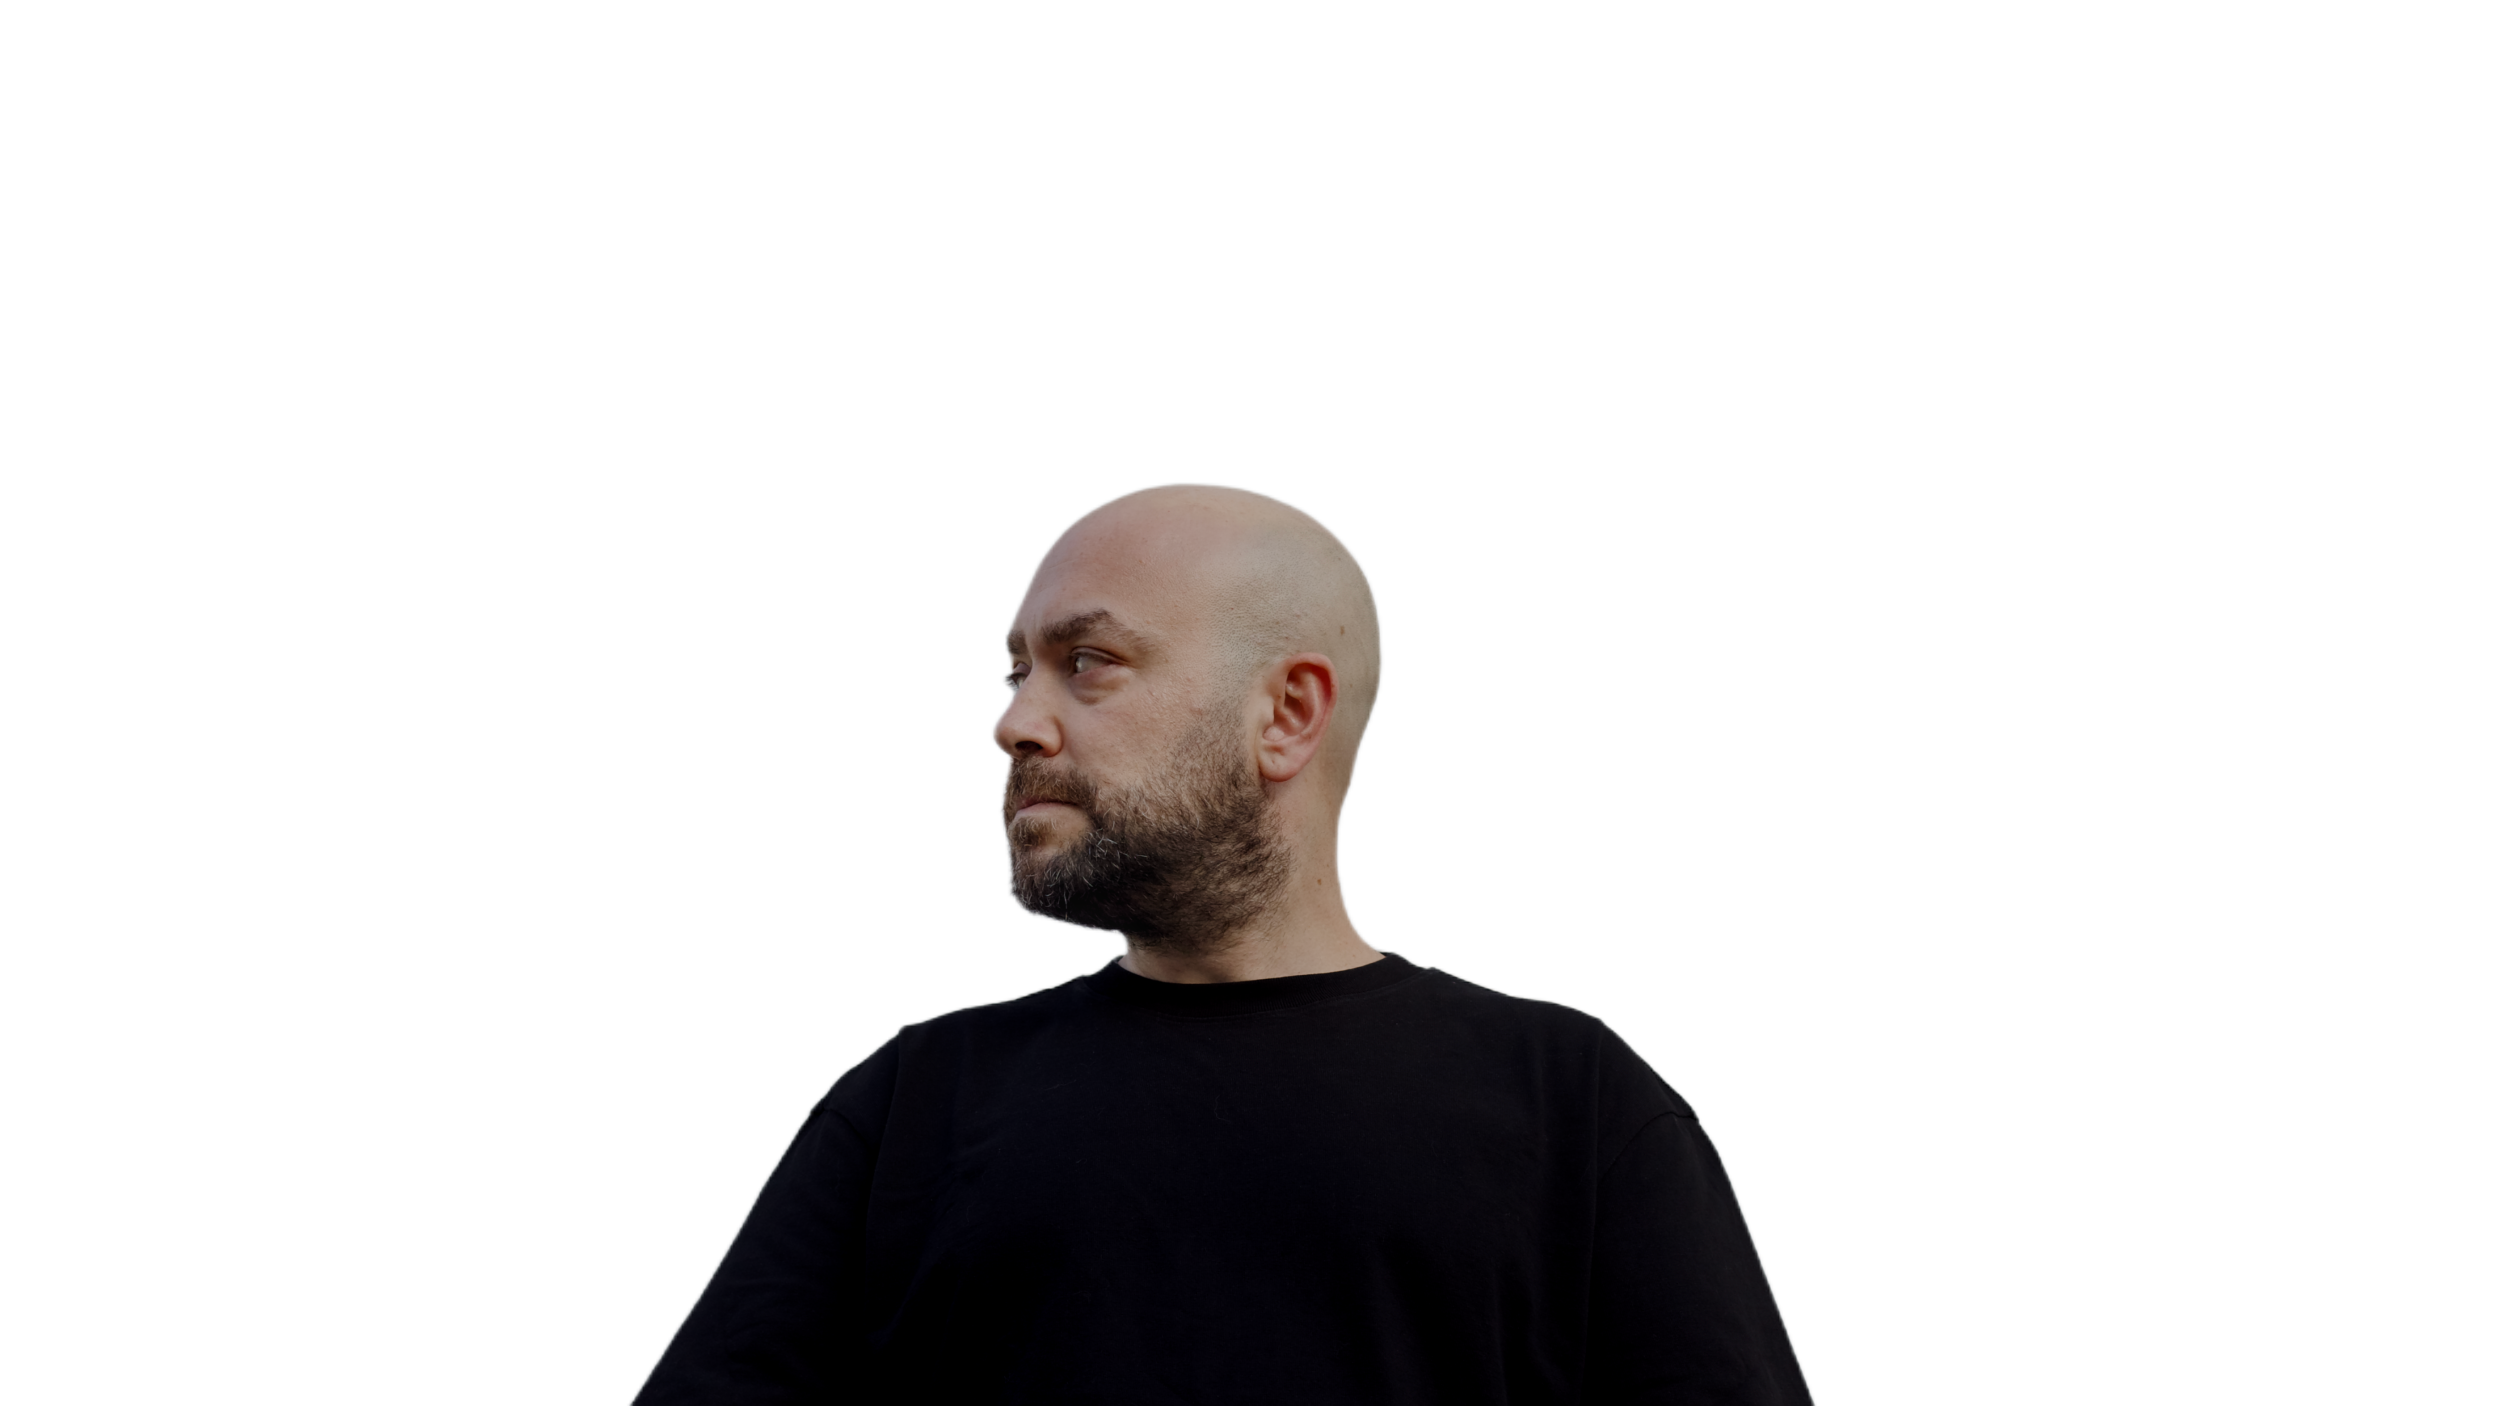
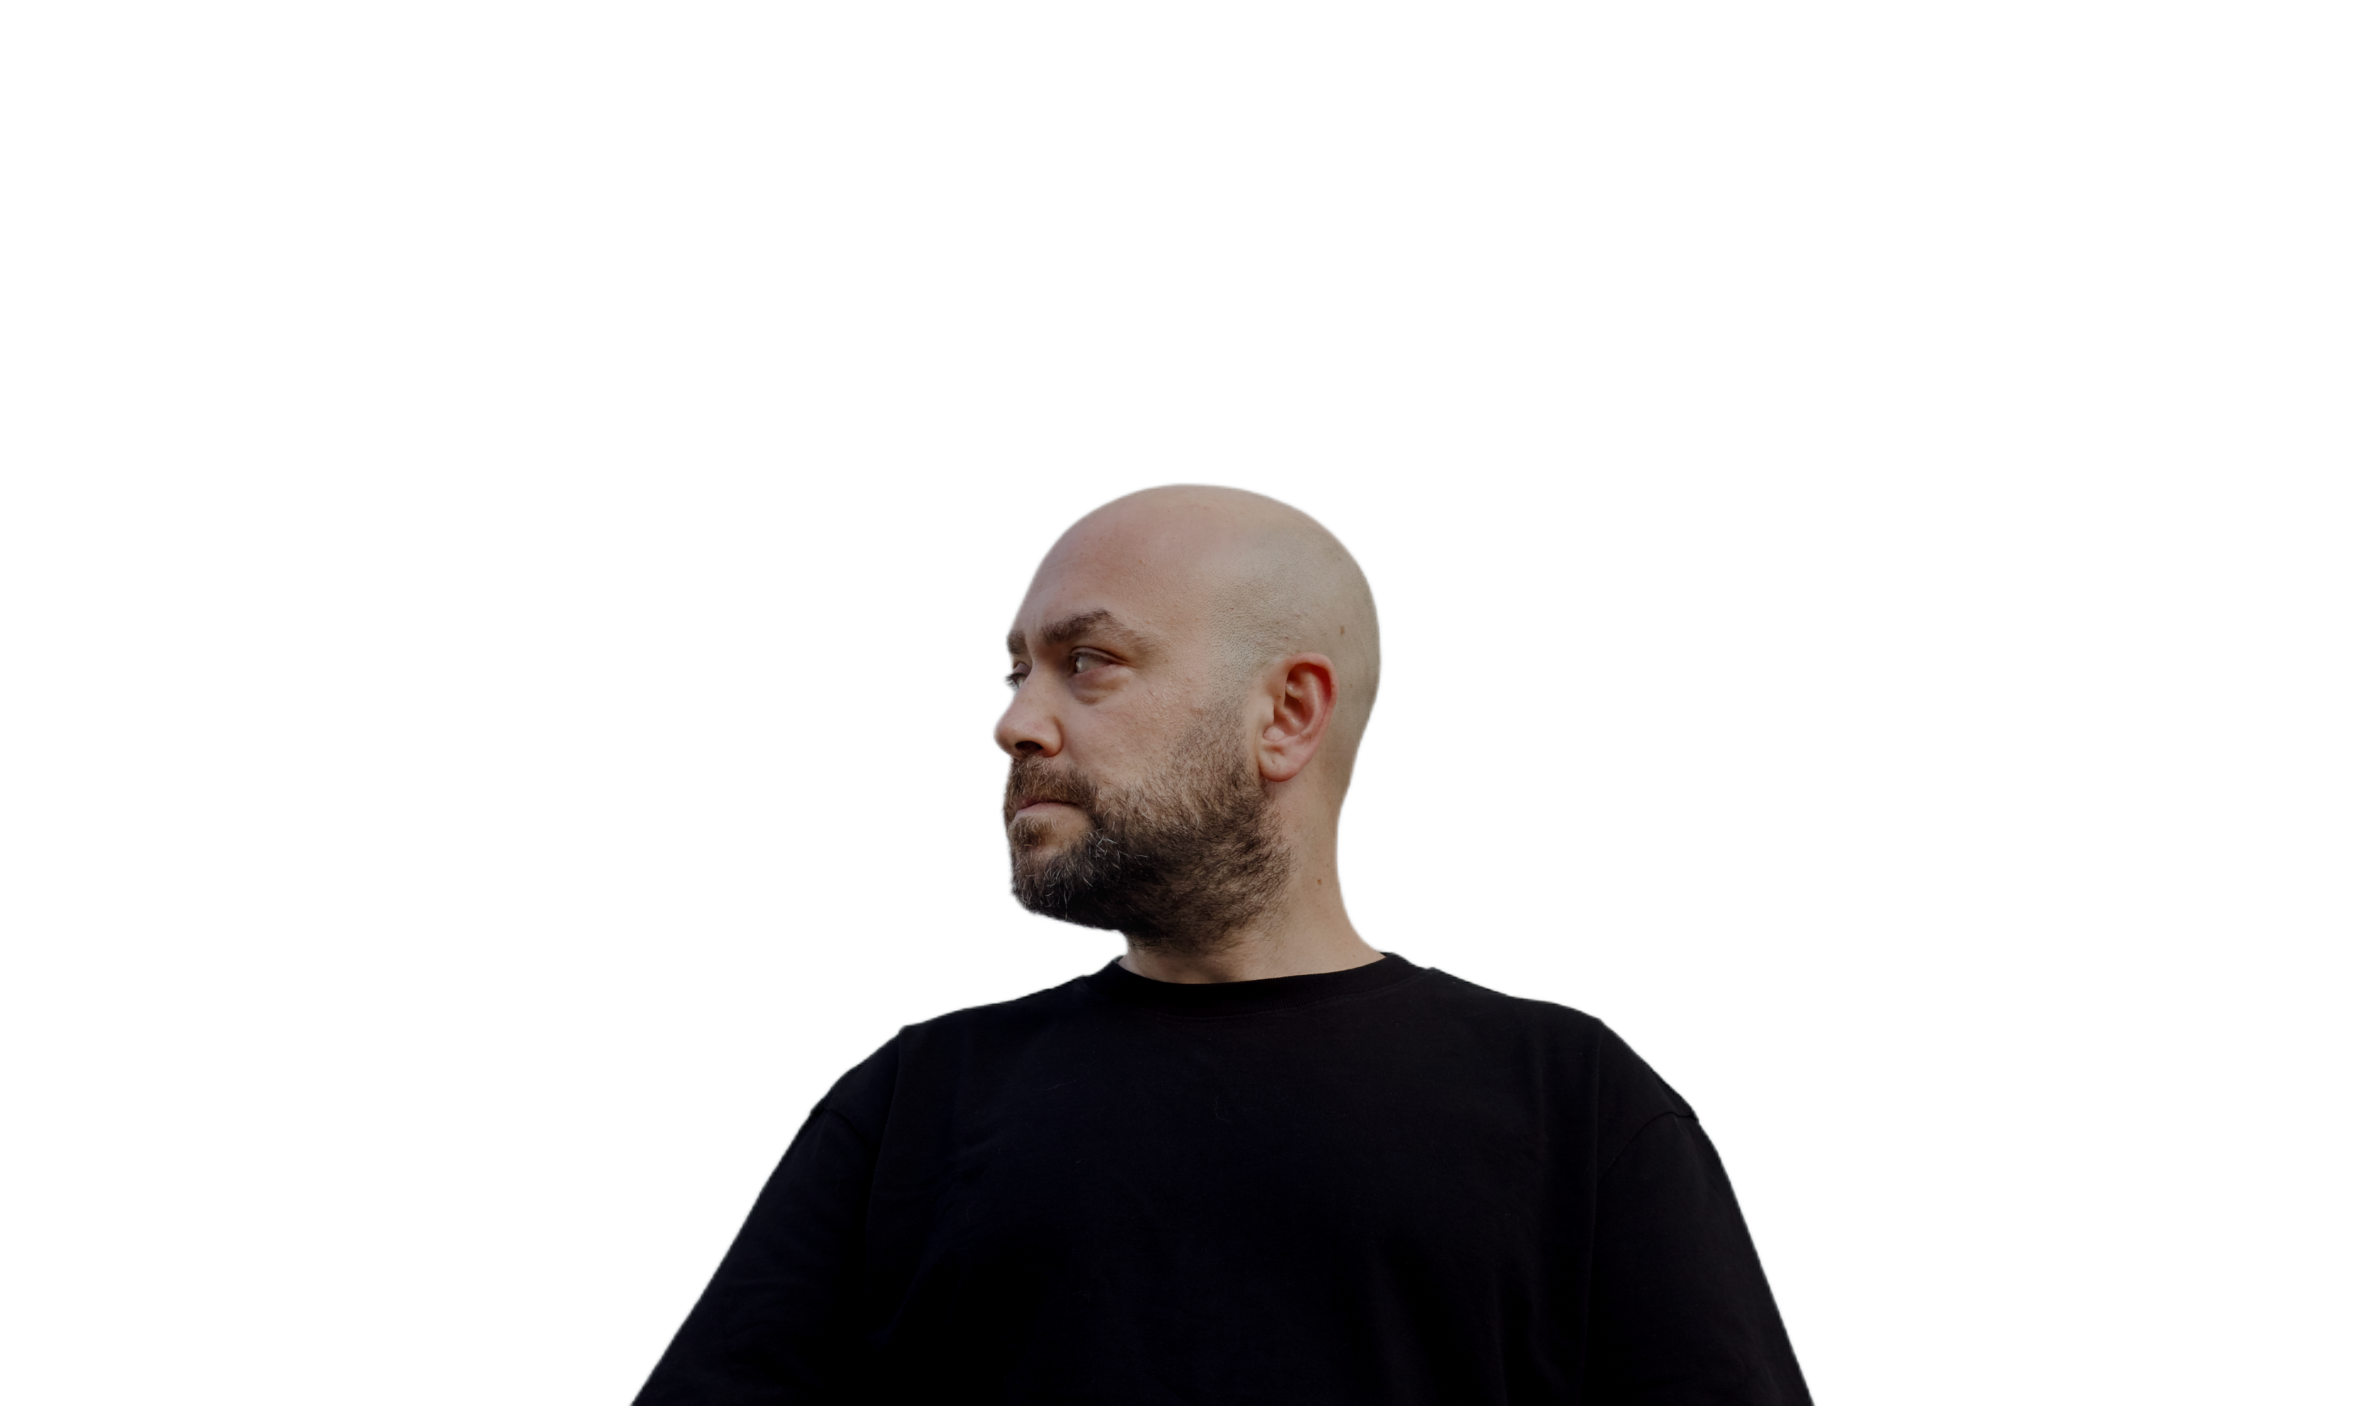
fix: centre the hero subject in the source plates so it holds at every aspect

Changed region(s): [[0.3731, 0.3364, 0.7773, 1.0], [0.2487, 0.734, 0.3731, 1.0]]

diff --git a/src/sections/hero/Hero.module.css b/src/sections/hero/Hero.module.css
@@ -138,23 +138,40 @@
 }
 
 @media (max-width: 840px) {
+  /* The row is kept, but the platforms stack up the right edge rather than
+     wrapping across the foot. The tagline takes the remaining left column. */
   .foot {
-    flex-direction: column;
-    align-items: flex-start;
+    align-items: flex-end;
+    gap: var(--d3);
+  }
+
+  .tagline {
+    flex: 1 1 auto;
+    min-width: 0;
   }
 
   .socials {
-    justify-content: flex-start;
+    flex: none;
+    flex-direction: column;
+    align-items: flex-end;
+    gap: var(--d0);
   }
 }
 
-/* At 1.7 on a tall, narrow viewport the cover fit has already cropped to the
-   middle quarter of a 16:9 frame, and the extra scale then fills the screen
-   with one shoulder. Reframe rather than magnify. */
+/* The plate is a 16:9 frame. Once the viewport is narrower than that, cover has
+   already cropped horizontally, and 1.7 on top fills the screen with one
+   shoulder. The scale steps down with the aspect rather than the width, because
+   the aspect is what actually drives the crop. */
+@media (max-aspect-ratio: 3/2) {
+  .hero {
+    --hero-scale: 1.3;
+  }
+}
+
 @media (max-width: 840px) {
   .hero {
     --hero-scale: 1;
     --hero-lift: 0%;
-    --hero-origin: 50% 30%;
+    --hero-origin: 50% 34%;
   }
 }

diff --git a/src/styles/tokens.css b/src/styles/tokens.css
@@ -123,12 +123,17 @@
      which writes the same transform per frame. Change both together. */
   --hero-scale: 1.7;
   --hero-lift: -6%;
-  --hero-origin: 49% 42%;
+  /* Both plates are cropped so the head's centroid sits at 50.06% of the frame.
+     That is what lets a plain centre origin and centre focus hold the head on
+     the middle of the screen at every aspect and every scale. Re-crop both
+     together if either is ever replaced. */
+  --hero-origin: 50% 42%;
   --hero-focus: center 42%;
   --hero-row-gap: 1vh;
   --hero-type: min(13vw, calc(20vh / var(--z, 1)));
 
   --z-canvas: 1;
+  --z-glow: 45;
   --z-content: 3;
   --z-header: 50;
   --z-skip: 300;

diff --git a/src/sections/hero/index.tsx b/src/sections/hero/index.tsx
@@ -44,7 +44,7 @@ export const Hero = () => (
         aria-hidden="true"
         fill
         priority
-        sizes="170vw"
+        sizes="(max-width: 840px) 100vw, 170vw"
         className={styles.plate}
       />
       <div className={styles.scrim} />
@@ -75,7 +75,7 @@ export const Hero = () => (
       aria-hidden="true"
       fill
       priority
-      sizes="170vw"
+      sizes="(max-width: 840px) 100vw, 170vw"
       className={styles.cutout}
     />
 
